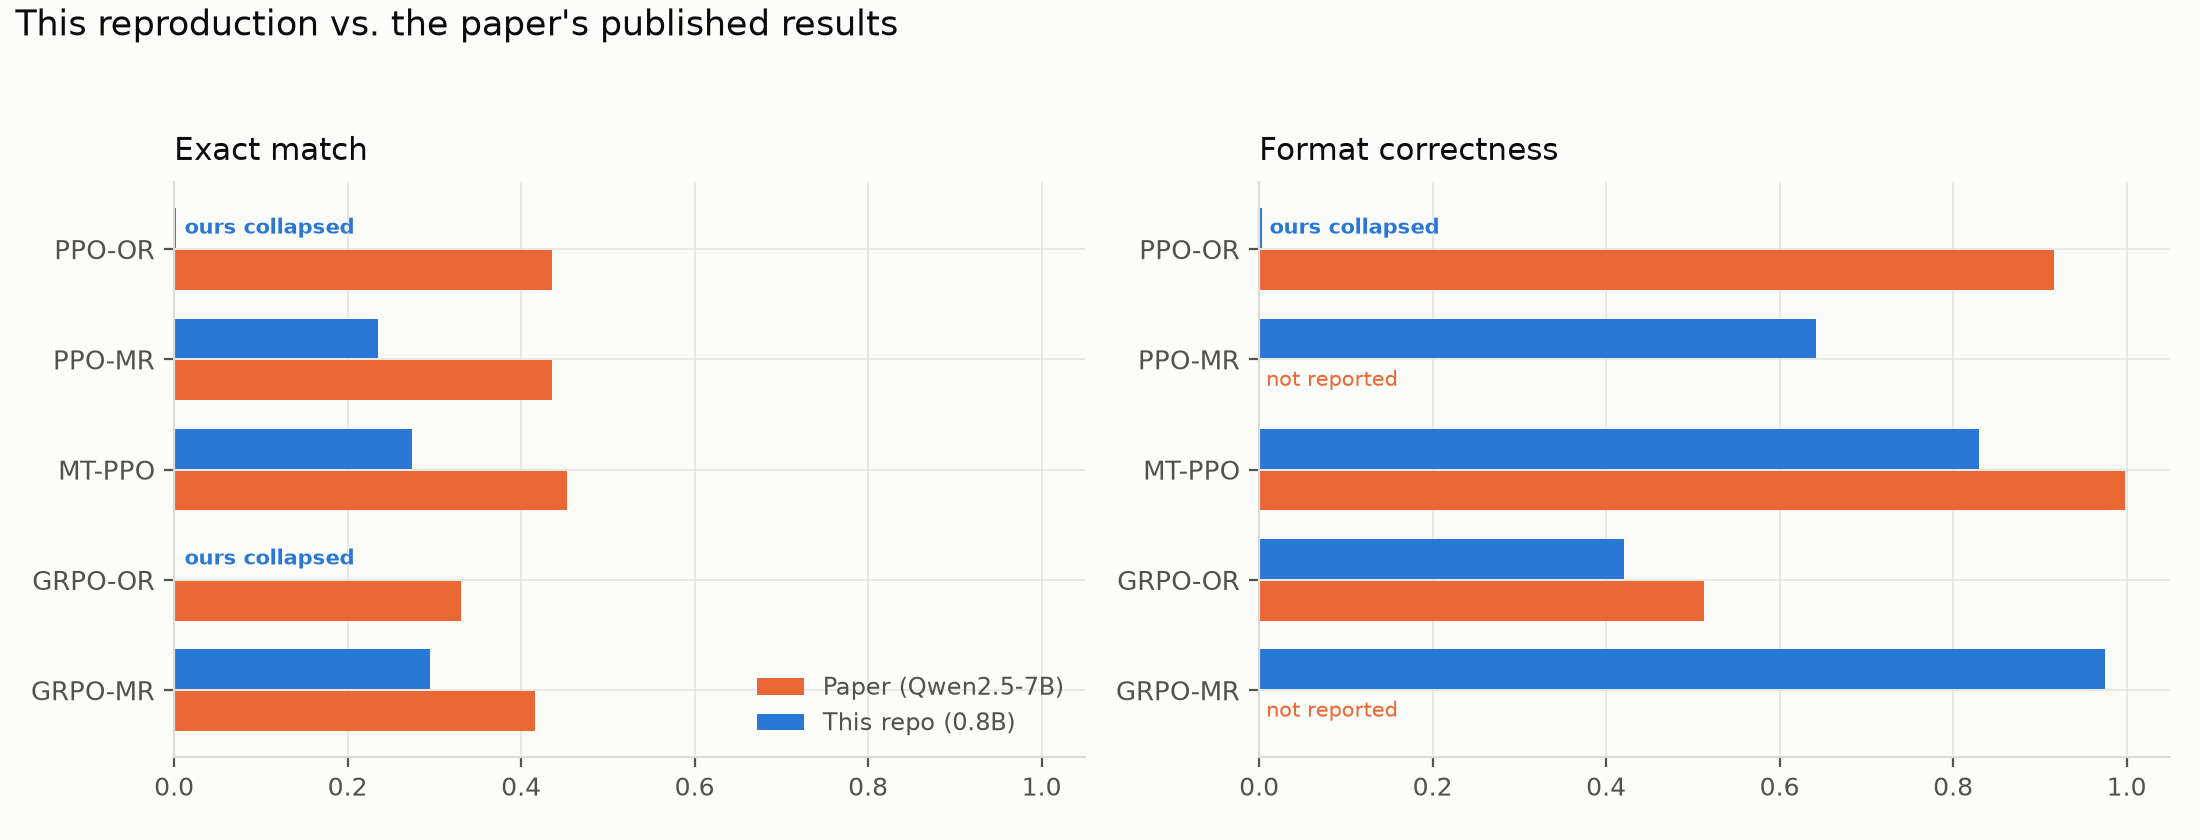
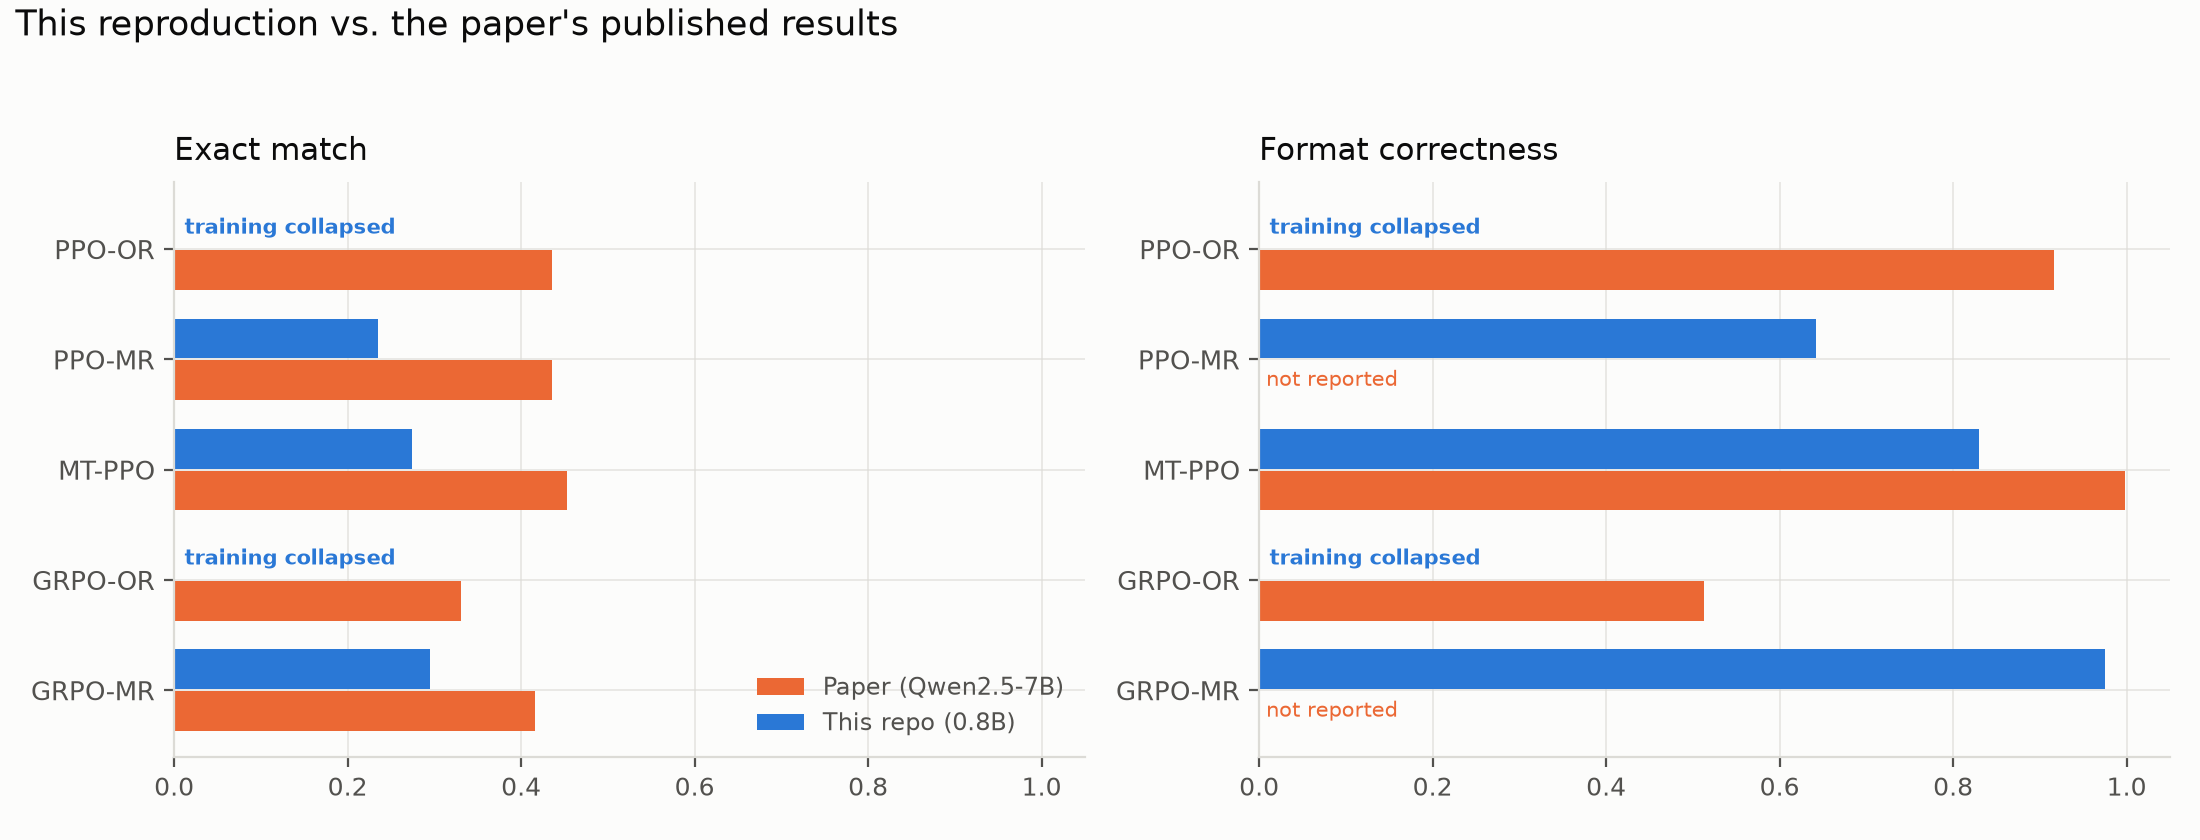
Stop plotting scores for arms whose training collapsed
The chart was arguing with itself. For the three arms that trained it compares
numbers against the paper, which is valid. For the two that collapsed it drew
their held-out scores as bars too -- and GRPO-OR scores 0.421 on format
correctness, because a frozen policy still emits a parseable answer tag 42% of
the time. Plotted beside the paper's 0.513 that reads as a near miss, when the
arm is dead: gradient exactly zero from step 185, and not one search call
across all 7,404 held-out questions.

Worse, the old label keyed off the bar height rather than the run, so the same
dead arm was marked collapsed in the exact-match panel and left unmarked in the
format panel.

Collapsed arms now get no bar and a "training collapsed" label in both panels.
For those arms that IS the result; the score is an artifact of what format
compliance measures, not a measurement worth comparing. Every exact figure,
collapsed arms included, is still in the README's results table.

diff --git a/scripts/plot_phase7c.py b/scripts/plot_phase7c.py
@@ -70,6 +70,13 @@ ARM_KEYS = {
     "GRPO-OR": "grpo_or",
     "GRPO-MR": "grpo_mr",
 }
+# Arms whose training died, so their held-out scores are not comparable measurements. GRPO-OR's
+# gradient was exactly zero from step 185 on; PPO-OR was stopped once it had stopped answering.
+# Their bars are suppressed rather than drawn: GRPO-OR still scores 0.421 on format correctness
+# (a frozen policy emits a parseable tag 42% of the time), and plotting that beside the paper's
+# 0.513 invites a comparison of two numbers that do not mean the same thing. Exact values for
+# every arm, collapsed included, are in the README's results table.
+COLLAPSED = {"PPO-OR", "GRPO-OR"}
 
 
 def plot_vs_paper(summary: dict, out: Path) -> None:
@@ -86,24 +93,22 @@ def plot_vs_paper(summary: dict, out: Path) -> None:
         ours, paper = [], []
         for arm in arms:
             m = summary[ARM_KEYS[arm]]
-            ours.append(m["em"] if idx == 0 else m["fmt"])
+            score = m["em"] if idx == 0 else m["fmt"]
+            ours.append(0.0 if arm in COLLAPSED else score)
             p = PAPER_ANCHORS[arm][idx]
             paper.append(p if p is not None else 0.0)
         ax.barh([i + 0.19 for i in y], paper, height=0.36, color=PAPER, label="Paper (Qwen2.5-7B)")
         ax.barh([i - 0.19 for i in y], ours, height=0.36, color=OURS, label="This repo (0.8B)")
         for i, arm in enumerate(arms):
-            # Coloured to the paper's series for the same reason as the "ours collapsed" label
-            # below: a neutral grey label between two bars is ambiguous about which one it means.
+            # Coloured to each series it describes: a neutral grey label sitting between two bars
+            # gives the reader no way to tell which of them it belongs to.
             if PAPER_ANCHORS[arm][idx] is None:
                 ax.text(0.008, i + 0.19, "not reported", va="center", fontsize=7.5, color=PAPER)
-            # A bar at ~0 is indistinguishable from a missing bar, so say what it means. Coloured
-            # to match our own bars, not the loss red -- red sits too close to the paper's orange
-            # and reads as labelling the paper's bar instead of the missing one.
-            if ours[i] < 0.02:
+            if arm in COLLAPSED:
                 ax.text(
                     0.012,
                     i - 0.19,
-                    "ours collapsed",
+                    "training collapsed",
                     va="center",
                     fontsize=7.5,
                     color=OURS,
